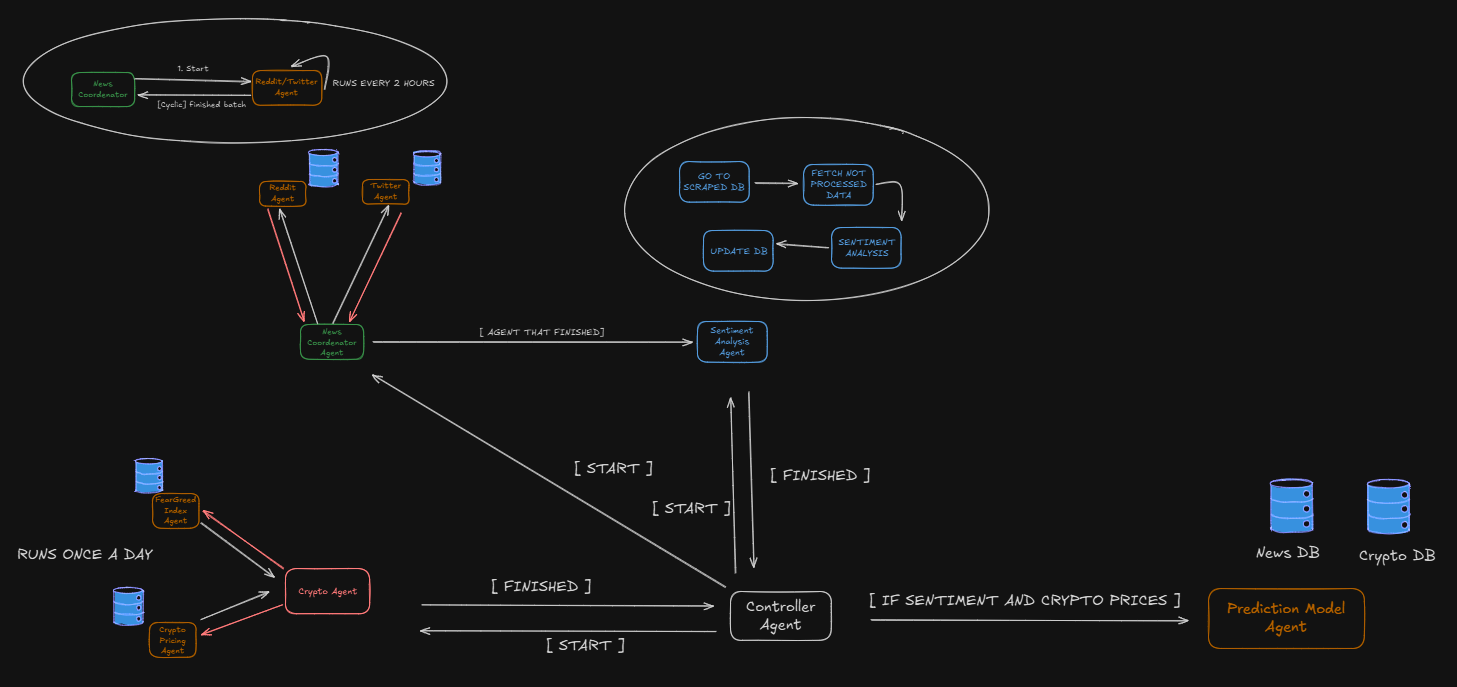
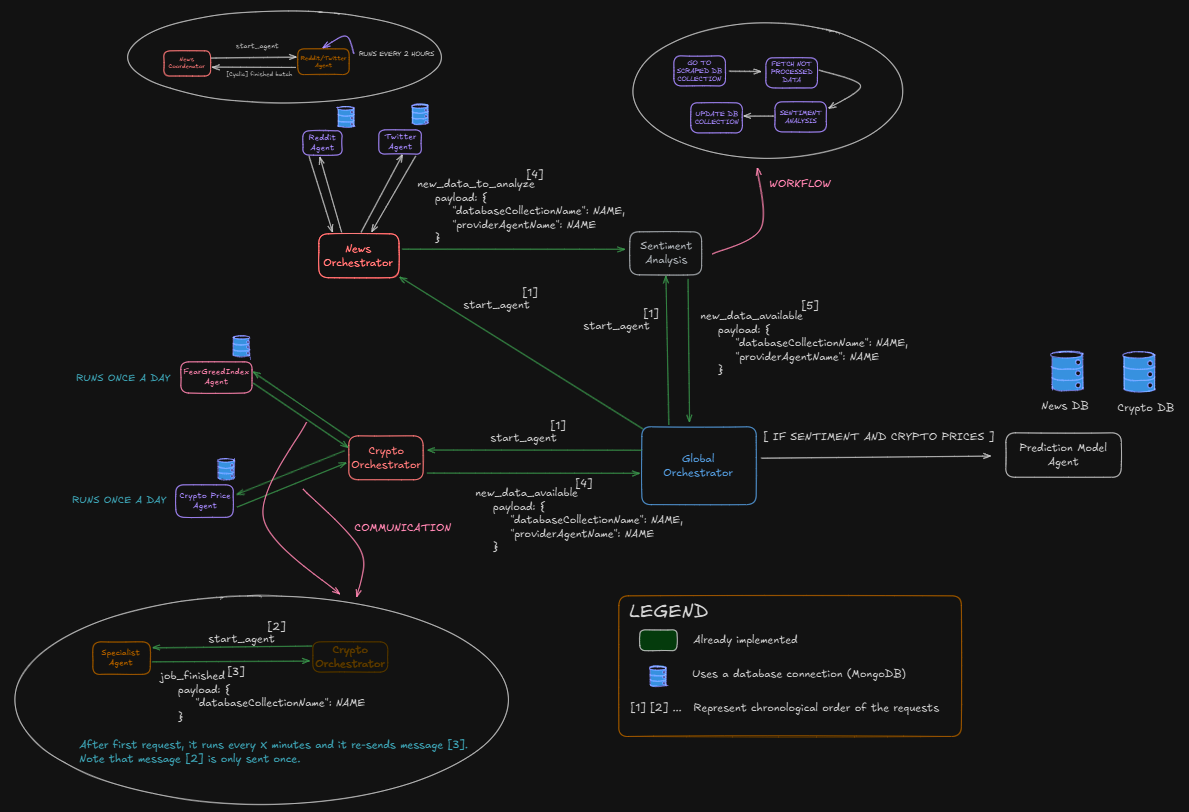
update workflow sketch

diff --git a/README.md b/README.md
@@ -1,1 +1,4 @@
 # ASM
+
+## Agents Workflow
+![Agents Workflow](Agents-Workflow.png)
